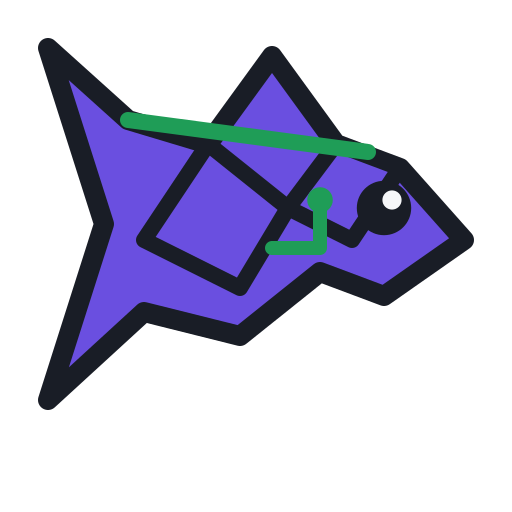
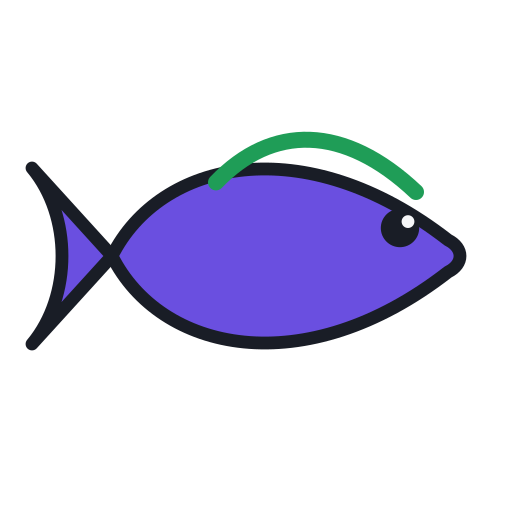
fix(web): redraw the koi mark as a smooth bezier silhouette, not a polygon
Round 1 shape sign-off: the polygon outline read as an angular arrowhead
with a fan tail (a piranha), not a koi -- koi-ness comes from a smooth,
long, gently-tapering body with the angular facets kept INSIDE it as seam
lines, not from the outline itself being faceted.

Redrawn per the orchestrator's exact geometry: bezier body/tail/dorsal/
pectoral paths, 3 curved seam lines clipped to the body path via
<clipPath> so they never poke outside it, the same token mapping and
mono/eye/spine/trace design as round 1.

New: below 24px (the header itself passes 22, so this decides the
header's own rendering) the mark drops to a reduced element set -- body,
tail, spine glow, eye only -- since the facets, circuit trace, and
pectoral fin don't survive legibly that small rather than rendering them
illegibly. Mutation-verified: dropping the size<24 threshold check fails
two tests (the element-count comparison and the exact full/small counts).

favicon.svg switches to the "small" element set with the light-theme hex
baked in, since a favicon is almost always rendered at 16-32px -- the
exact size band that set exists for; regenerated the four PNGs from it.

Part of Rackbops/kenzen#89.

Changed region(s): [[0.0312, 0.0625, 0.9375, 0.8125]]

diff --git a/packages/web/src/brand/KoiMark.tsx b/packages/web/src/brand/KoiMark.tsx
@@ -1,8 +1,12 @@
+import { useId } from "react"
+
 /**
  * kenzen#89: the Code Stream Koi mark (epic #88) -- a robotic koi swimming right, traced from
- * `brand/source/koi-mark-glyphs.jpg`'s deep-navy glyph at the epic's stated level of
- * simplification (armor plates, seams, a forked tail, dorsal fin, a spine glow line, one
- * circuit-trace detail), not the reference's full segment count -- it has to read at 16px.
+ * `brand/source/koi-mark-glyphs.jpg`'s deep-navy glyph. Round 2 (orchestrator design call, live
+ * screenshot review): the round-1 polygon silhouette read as an angular arrowhead/piranha, not
+ * a koi -- koi-ness comes from a smooth, long, gently tapering bezier body with the angular
+ * facets kept INSIDE it as seam lines, not from the outline itself being faceted. Redrawn to
+ * that geometry; the round-1 fallback/mono/token-mapping design carries over unchanged.
  *
  * Every fill/stroke is a `--rb-*` token (STANDARD.md sections 12/15), so the mark recolors with
  * every theme rather than carrying its own brand hex; `brand-hex-guard.test.ts` enforces this at
@@ -12,21 +16,37 @@
  * the light-theme hex values in as the one permitted exception to the token-only rule).
  */
 export interface KoiMarkProps {
-  /** Rendered width/height in px. Default 24 (the header wordmark's own size, passed as 22
-   * there to sit inside the existing `rb-wordmark` line height). */
+  /** Rendered width/height in px. Default 24. Below 24 (the header wordmark passes 22), the
+   * mark drops to a reduced element set -- the facets, circuit trace, and pectoral fin don't
+   * survive legibly at that size, so they're not drawn rather than drawn illegibly. */
   size?: number
   /** An accessible name. Present -> renders a `<title>` and `role="img"`. Absent -> purely
    * decorative (`aria-hidden="true"`), for placement next to text that already says "kenzen". */
   title?: string
-  /** One-colour mode: every themed fill becomes `currentColor` and every seam/eye line becomes
-   * `var(--rb-bg)` instead of `var(--rb-text)`, so the mark works as a single-tone glyph (e.g.
-   * over a solid background) without a full theme's token set backing it. */
+  /** One-colour mode: the whole silhouette (body, tail, dorsal, pectoral) becomes one
+   * `currentColor` union, with the seam/outline lines switching to `var(--rb-bg)` cut-outs
+   * instead of `var(--rb-text)` -- a single-tone glyph that works without a full theme's token
+   * set backing it. */
   mono?: boolean
 }
 
+const BODY_PATH = "M14 32 C20 20 38 16 56 30 C58 31 58 33 56 34 C38 48 20 44 14 32 Z"
+const TAIL_PATH = "M14 32 L4 21 C9 27 9 37 4 43 Z"
+const DORSAL_PATH = "M28 22 C33 12 43 13 47 21 Z"
+const PECTORAL_PATH = "M40 36 C38 43 31 45 29 39 Z"
+const FACET_PATHS = ["M30 22.5 Q31 32 30 41.5", "M38 20 Q39 32 38 44", "M46 21.5 Q47 32 46 40"]
+const SPINE_PATH = "M27 22.8 C34 15.5 43 15.5 52 24"
+const TRACE_PATH = "M22 34 H27 V30 H31"
+
 export function KoiMark({ size = 24, title, mono = false }: KoiMarkProps) {
+  const clipId = useId()
+  // Below 24px the facets, circuit trace, and pectoral fin are the first detail to go muddy --
+  // the header itself passes 22, so this threshold is what decides the header's own rendering,
+  // not just the favicon's.
+  const small = size < 24
+
   const bodyFill = mono ? "currentColor" : "var(--rb-accent)"
-  const plateFill = mono ? "currentColor" : "var(--rb-accent-strong, var(--rb-accent))"
+  const tailFill = mono ? "currentColor" : "var(--rb-accent-strong, var(--rb-accent))"
   const seamColor = mono ? "var(--rb-bg)" : "var(--rb-text)"
   const traceColor = mono ? "currentColor" : "var(--rb-success)"
 
@@ -41,55 +61,65 @@ export function KoiMark({ size = 24, title, mono = false }: KoiMarkProps) {
       aria-hidden={title ? undefined : "true"}
     >
       {title ? <title>{title}</title> : null}
-      {/* Body silhouette: snout -> forehead -> dorsal fin -> spine ridge -> forked tail ->
-          belly -> pectoral fin -> jaw -> back to the snout. */}
-      <polygon
-        points="58,30 50,21 42,18 34,7 26,18 16,15 6,6 13,28 6,50 18,39 30,42 40,34 48,37"
+      <defs>
+        <clipPath id={clipId}>
+          <path d={BODY_PATH} />
+        </clipPath>
+      </defs>
+      <path
+        d={TAIL_PATH}
+        fill={tailFill}
+        stroke={seamColor}
+        strokeWidth={1.6}
+        strokeLinejoin="round"
+      />
+      <path
+        d={BODY_PATH}
         fill={bodyFill}
         stroke={seamColor}
-        strokeWidth={2.5}
+        strokeWidth={1.6}
         strokeLinejoin="round"
       />
-      {/* Armor-plate facets: filled for shading in colour mode, and their own boundary doubles
-          as a seam line (in mono, the fill matches the body so only the seam stroke shows,
-          reading as a cut-out crease rather than a shaded panel). */}
-      <polygon
-        points="42,18 50,21 44,30 36,26"
-        fill={plateFill}
-        stroke={seamColor}
-        strokeWidth={2}
-        strokeLinejoin="round"
-      />
-      <polygon
-        points="26,18 36,26 30,36 18,30"
-        fill={plateFill}
-        stroke={seamColor}
-        strokeWidth={2}
-        strokeLinejoin="round"
-      />
-      {/* Spine glow: the one line that reads as "powered on" rather than structural. */}
-      <polyline
-        points="46,19 16,15"
-        fill="none"
-        stroke={traceColor}
-        strokeWidth={2}
-        strokeLinecap="round"
-      />
-      {/* Circuit trace: a single right-angle etched into the rear plate, plus its via node. */}
-      <polyline
-        points="34,31 40,31 40,25"
-        fill="none"
-        stroke={traceColor}
-        strokeWidth={1.75}
-        strokeLinecap="round"
-        strokeLinejoin="round"
-      />
-      <circle cx="40" cy="25" r="1.6" fill={traceColor} />
-      {/* Eye: a solid seam-coloured disc with a bg-coloured highlight, always -- the highlight
-          is the one element that's `var(--rb-bg)` in both modes, since it's a cut-out either
-          way, not a themed fill. */}
-      <circle cx="48" cy="26" r="3.4" fill={seamColor} />
-      <circle cx="49" cy="25" r="1.2" fill="var(--rb-bg)" />
+      {!small && (
+        <>
+          <path
+            d={DORSAL_PATH}
+            fill={bodyFill}
+            stroke={seamColor}
+            strokeWidth={1.6}
+            strokeLinejoin="round"
+          />
+          <path d={PECTORAL_PATH} fill={bodyFill} />
+          <g clipPath={`url(#${clipId})`}>
+            {FACET_PATHS.map((d) => (
+              <path
+                key={d}
+                d={d}
+                fill="none"
+                stroke={seamColor}
+                strokeWidth={1.5}
+                strokeLinecap="round"
+              />
+            ))}
+          </g>
+        </>
+      )}
+      <path d={SPINE_PATH} fill="none" stroke={traceColor} strokeWidth={2} strokeLinecap="round" />
+      {!small && (
+        <>
+          <path
+            d={TRACE_PATH}
+            fill="none"
+            stroke={traceColor}
+            strokeWidth={1.5}
+            strokeLinecap="round"
+            strokeLinejoin="round"
+          />
+          <circle cx={31} cy={30} r={1.1} fill={traceColor} />
+        </>
+      )}
+      <circle cx={50} cy={28.5} r={2.4} fill={seamColor} />
+      <circle cx={51} cy={27.7} r={0.8} fill="var(--rb-bg)" />
     </svg>
   )
 }

diff --git a/packages/web/src/brand/KoiMark.test.tsx b/packages/web/src/brand/KoiMark.test.tsx
@@ -2,6 +2,12 @@ import { render } from "@testing-library/react"
 import { expect, test } from "vitest"
 import { KoiMark } from "./KoiMark.js"
 
+/** Drawn shapes only -- excludes the `<clipPath>`'s own `<path>` in `<defs>`, which is plumbing
+ * for the facet clip, not a visible mark of the drawing. */
+function drawnShapes(container: HTMLElement): Element[] {
+  return Array.from(container.querySelectorAll("path, circle")).filter((el) => !el.closest("defs"))
+}
+
 test("renders an SVG on the mark's 64x64 drawing grid", () => {
   const { container } = render(<KoiMark />)
   const svg = container.querySelector("svg")
@@ -39,7 +45,30 @@ test("size defaults to 24 when omitted", () => {
   expect(svg).toHaveAttribute("height", "24")
 })
 
-test("mono swaps every themed fill/stroke to currentColor, keeping only the bg cut-outs and seams as var(--rb-bg)", () => {
+test("kenzen#89 round 2: below 24px, the mark drops to fewer elements -- facets, circuit trace, and the pectoral fin don't survive that small", () => {
+  const { container: small } = render(<KoiMark size={16} />)
+  const { container: full } = render(<KoiMark size={64} />)
+  expect(drawnShapes(small).length).toBeLessThan(drawnShapes(full).length)
+})
+
+test("kenzen#89 round 2: at 24px and above, the full element set renders (dorsal, pectoral, all three facets, the trace and its via dot)", () => {
+  const { container } = render(<KoiMark size={24} />)
+  const shapes = drawnShapes(container)
+  // tail + body + dorsal + pectoral + 3 facets + spine + trace = 9 <path>s, + trace-dot + eye +
+  // eye-highlight = 3 <circle>s.
+  expect(shapes.filter((el) => el.tagName === "path")).toHaveLength(9)
+  expect(shapes.filter((el) => el.tagName === "circle")).toHaveLength(3)
+})
+
+test("kenzen#89 round 2: below 24px, only the tail, body, spine glow, and eye survive", () => {
+  const { container } = render(<KoiMark size={16} />)
+  const shapes = drawnShapes(container)
+  // tail + body + spine = 3 <path>s, + eye + eye-highlight = 2 <circle>s.
+  expect(shapes.filter((el) => el.tagName === "path")).toHaveLength(3)
+  expect(shapes.filter((el) => el.tagName === "circle")).toHaveLength(2)
+})
+
+test("mono swaps every themed fill/stroke to currentColor, keeping only the bg cut-outs as var(--rb-bg)", () => {
   const { container } = render(<KoiMark mono />)
   const svg = container.querySelector("svg") as SVGSVGElement
   const fillsAndStrokes = Array.from(svg.querySelectorAll("[fill], [stroke]")).flatMap((el) => [
@@ -51,7 +80,7 @@ test("mono swaps every themed fill/stroke to currentColor, keeping only the bg c
   expect(fillsAndStrokes.some((v) => v?.includes("--rb-success"))).toBe(false)
   expect(fillsAndStrokes.some((v) => v?.includes("--rb-text"))).toBe(false)
   // The body carries currentColor, not a fixed colour.
-  const body = svg.querySelector("polygon")
+  const body = drawnShapes(container).find((el) => el.tagName === "path") as SVGPathElement
   expect(body).toHaveAttribute("fill", "currentColor")
 })
 
